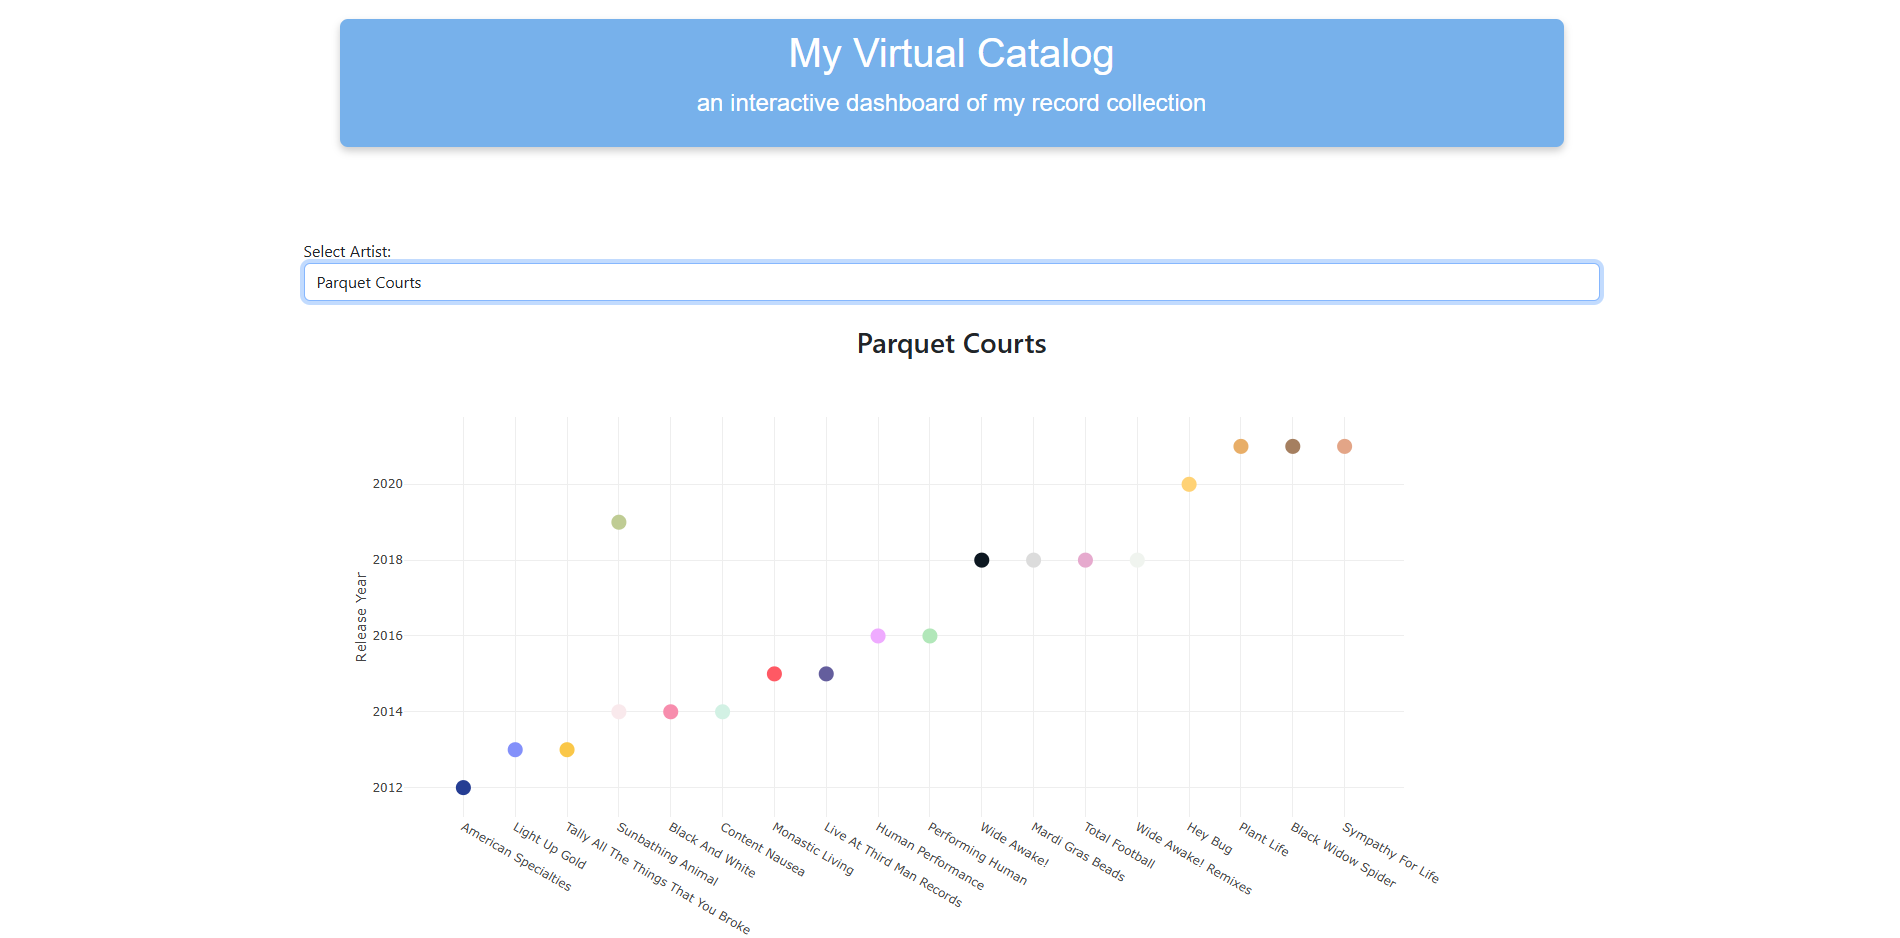
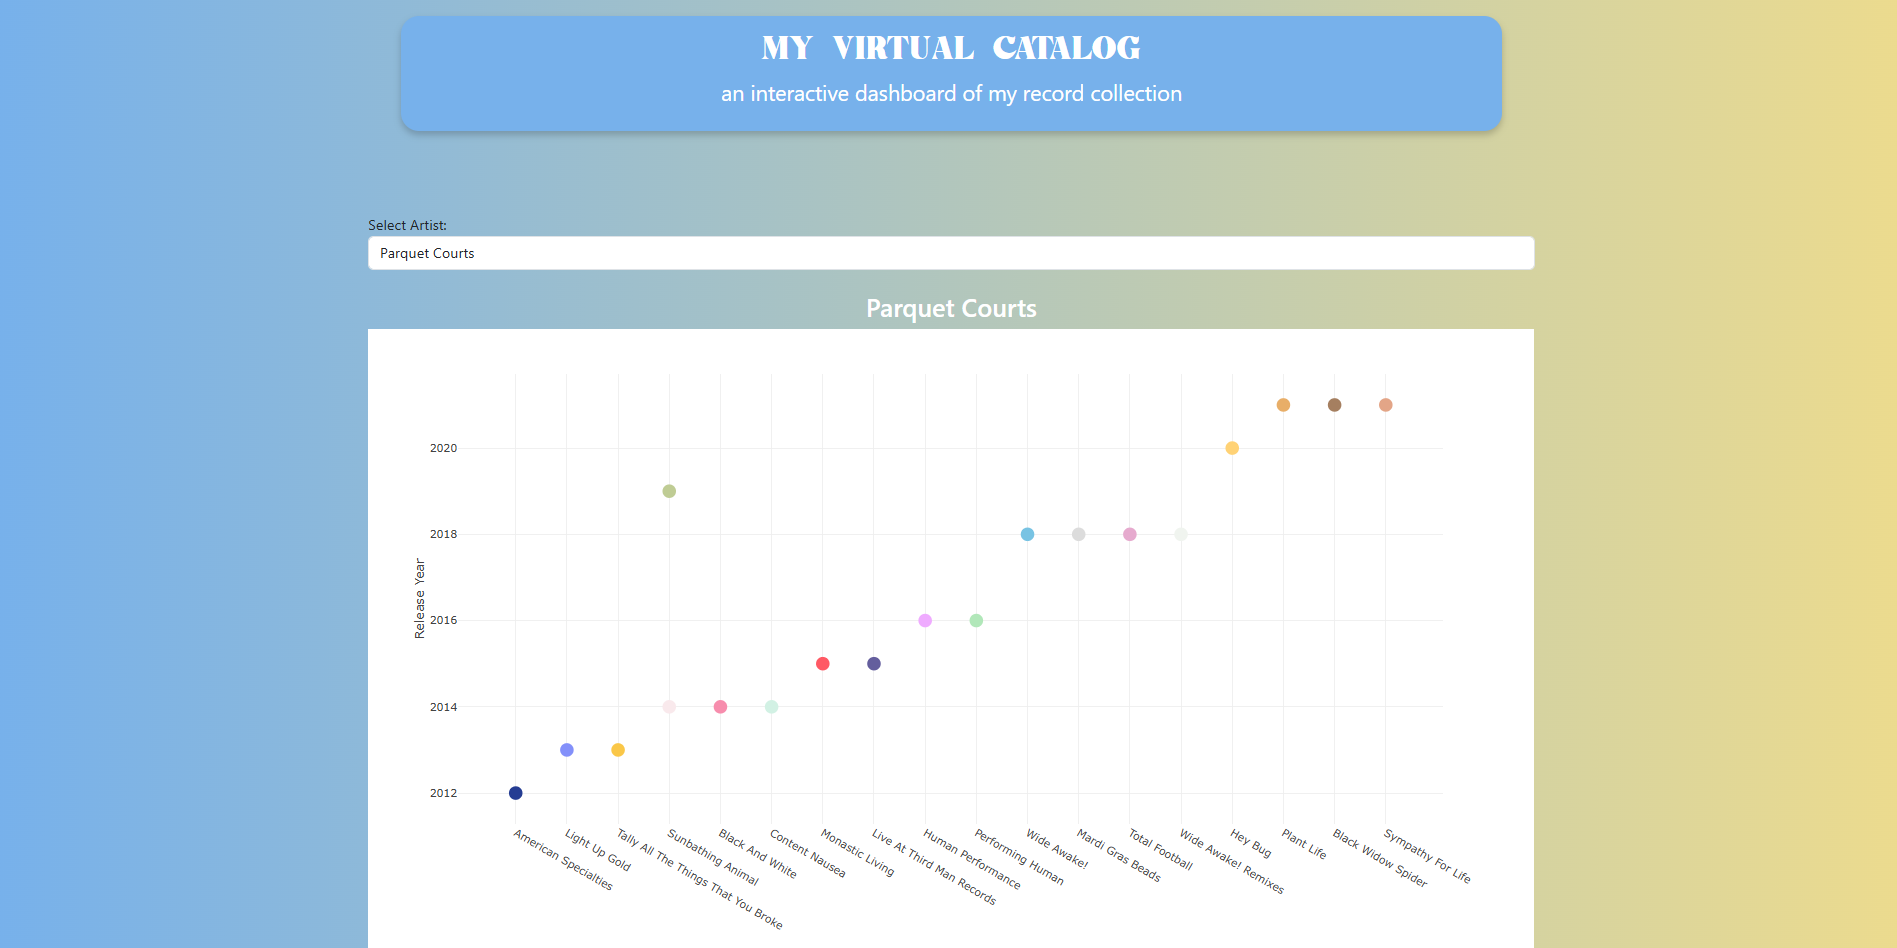
added font and gradient background

diff --git a/index.html b/index.html
@@ -9,20 +9,43 @@
   <link href="https://cdn.jsdelivr.net/npm/bootstrap@5.3.2/dist/css/bootstrap.min.css" rel="stylesheet" integrity="sha384-T3c6CoIi6uLrA9TneNEoa7RxnatzjcDSCmG1MXxSR1GAsXEV/Dwwykc2MPK8M2HN" crossorigin="anonymous">
   
   <style>
-    .title-container {
-      background-color: #77b1eb; /* Light background color */
-      /* change text color here */
-      color: white; /* Text color */
-      text-align: center; /* Center the text */
-      font-size: 24px; /* Font size */
-      line-height: 1.5; /* Line height for better readability */
-      margin-bottom: 20px; /* Space below the title */
-      font-family: Helvetica, "Trebuchet MS", Verdana, sans-serif; /* Font family */
-      padding: 10px; /* Padding around the title */
-      border-radius: 8px; /* Rounded corners */
-      box-shadow: 0 4px 8px rgba(0, 0, 0, 0.2); /* Optional shadow for depth */
+    @font-face {
+        font-family: 'ConcreteDemo';
+        src: url('fonts/concrete demo fx.ttf') format('truetype');
+        font-weight: normal;
+        font-style: normal;
     }
+    body {
+      background: linear-gradient(to right, #77b1eb, rgb(236, 219, 142)); /* Light blue to lighter blue */
+      min-height: 100vh;
+      margin: 0;
+      display: flex;
+      justify-content: center;
+      align-items: center;
+    }
+
+    h1 {
+        font-family: 'ConcreteDemo', sans-serif;
+    }
+
+    h3 {
+        color: white;
+    }
+
+    .title-container {
+      background-color: #77b1eb; 
+      color: white; 
+      text-align: center;
+      font-size: 24px;
+      line-height: 1.5; 
+      margin-bottom: 20px;
+      padding: 10px;
+      border-radius: 20px;
+      box-shadow: 0 4px 8px rgba(0, 0, 0, 0.2);
+    }
+   
   </style>
+
 </head>
 
 <body>
@@ -32,7 +55,7 @@
     <div class="row">
       <div class="col-md-12 p-5 text-center">
         <div class="title-container">
-          <h1>My Virtual Catalog</h1>
+          <h1>MY VIRTUAL CATALOG</h1>
           <p>an interactive dashboard of my record collection</p>
         </div>
       </div>

diff --git a/records.js b/records.js
@@ -25,7 +25,7 @@ d3.json("recordcollection.json").then(data => {
 });
 
 // Function to update charts based on selected artist
-const pallette = ["#253D93", "#8390FA", "#FAC748", "#F9E9EC", "#F78DAD", "D2F1E4", "FF5964", "645E9D", "EFABFF", "B1E7B9", "0D1821", "344966", 
+const pallette = ["#253D93", "#8390FA", "#FAC748", "#F9E9EC", "#F78DAD", "D2F1E4", "FF5964", "645E9D", "EFABFF", "B1E7B9", "78C3E3", "344966", 
                    "E6AACE", "F0F4EF", "BFCC94", "FFD275", "E8AE68", "A57F60", "E3A587", "DB5A42"];
 function updateCharts(artist, data) {
     const artistRecords = data
@@ -45,10 +45,10 @@ const scatterData = [{
     marker: { color: pallette, size: 15 }
 }];
 const scatterLayout = {
-    width: 1200, // Set a fixed width
+    width: 1295, // Set a fixed width
     height: 700, // Set a fixed height
     margin: {
-        b: 250, // Increase bottom margin for x-axis labels
+        b: 150, // Increase bottom margin for x-axis labels
         t: 50,
         l: 100,
         r: 100
@@ -84,7 +84,7 @@ function updateArtistDistribution(data) {
             colors: pallette,
             line: {
                 color: 'white',
-                width: 3 
+                width: 4 
             }
         },
         textinfo: "label",
@@ -99,11 +99,11 @@ function updateArtistDistribution(data) {
         }
     }];
     const distributionLayout = {
-        width: 1200,
+        width: 1295,
         height: 900,
         showlegend: false,
         margin: {
-            l: 110, // left margin
+            l: 50, // left margin
             r: 50, // right margin
             t: 50, // top margin
             b: 50  // bottom margin
